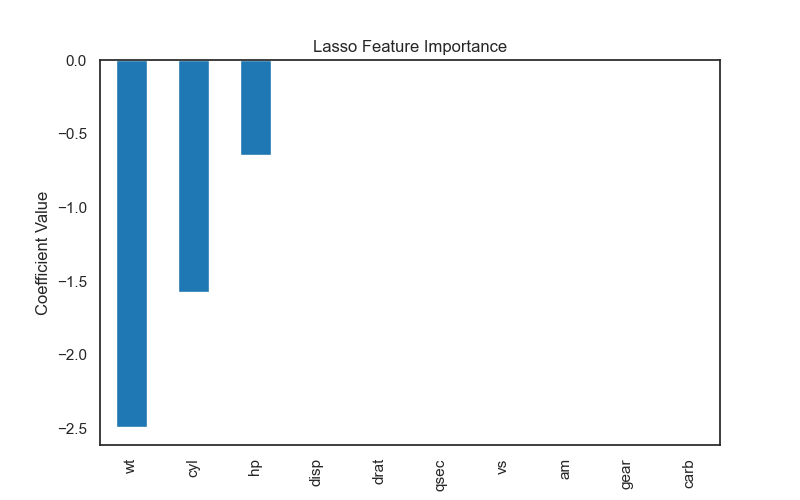
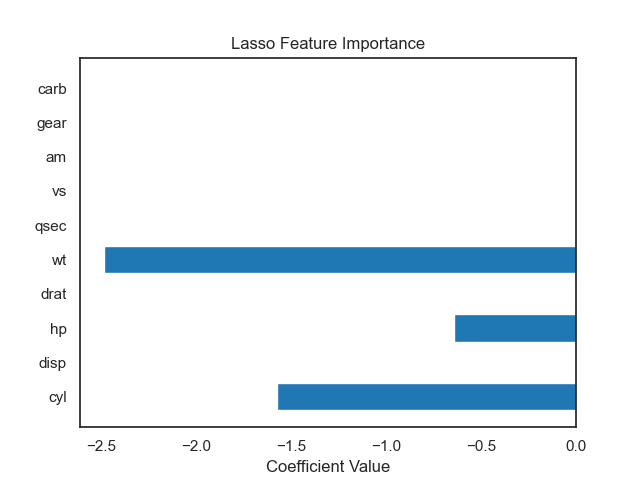
Added model comparison plots and updated regression script

Changed region(s): [[0.0312, 0.0625, 0.9062, 1.0], [0.6875, 0.6562, 0.9062, 0.7188]]

diff --git a/regression_model_comparison.py b/regression_model_comparison.py
@@ -164,3 +164,45 @@ print(comparison)
 
 Lasso performs both shrinkage and feature selection. It completely eliminates several variables such as disp, drat, qsec, vs, am, gear, and carb, setting their coefficients to zero. Only wt (-2.49), cyl (-1.57), and hp (-0.64) remain significant in the Lasso model. This confirms that these three variables are the most important predictors of fuel efficiency when multicollinearity is considered.
 """
+
+import matplotlib.pyplot as plt
+
+# Model names
+models = ["OLS", "Ridge", "Lasso"]
+
+# Scores
+r2_scores = [0.7466, 0.8181, 0.7770]
+mse_scores = [10.1302, 7.2737, 8.9179]
+
+# Plot 1: R² Comparison
+plt.figure()
+plt.bar(models, r2_scores)
+plt.xlabel("Model")
+plt.ylabel("Test R²")
+plt.title("Model Comparison - Test R²")
+plt.ylim(0, 1)
+plt.show()
+
+# Plot 2: MSE Comparison
+plt.figure()
+plt.bar(models, mse_scores)
+plt.xlabel("Model")
+plt.ylabel("Test MSE")
+plt.title("Model Comparison - Test MSE")
+plt.show()
+
+import matplotlib.pyplot as plt
+import numpy as np
+
+# Example feature names (adjust if needed)
+features = ["cyl", "disp", "hp", "drat", "wt", 
+            "qsec", "vs", "am", "gear", "carb"]
+
+# Replace with your actual lasso coefficients
+lasso_coefs = lasso_cv.coef_
+
+plt.figure()
+plt.barh(features, lasso_coefs)
+plt.xlabel("Coefficient Value")
+plt.title("Lasso Feature Importance")
+plt.show()
